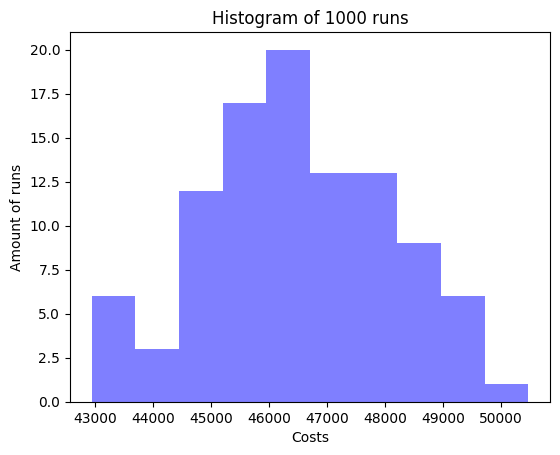
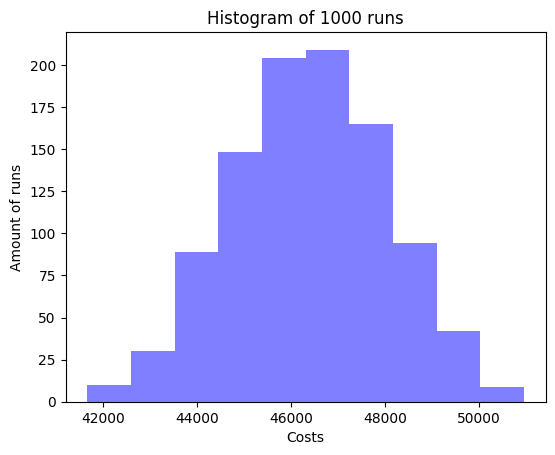
Yanick  update overlay + fix output files(waaronder technisch onderdeel)
Overlay maakt nu gebruik van segmenten ipv coördinaten. In de lijst van segmenten wordt bekeken hoevaak elk segment hierin zit. Zit het er vaker dan 1 keer in, dan toch telt het maar als 1 segment aangezien de kabels worden gedeeld
Visueel update: x,y-as nu geen label --> meer ruimte voor grid

diff --git a/code/visualisation/grid.py b/code/visualisation/grid.py
@@ -17,6 +17,10 @@ def plot_houses(houses):
         color = color_house(houses[i])
         plt.plot(int(x), int(y), marker=".", color=color)
 
+def axes_labels(): #makes sure there is nothing added to axes labels, which is done by default 
+    plt.xlabel("")
+    plt.ylabel("")
+
 # Gives color to the house on the grid
 def color_house(house):
     if house.to_battery == 1:
@@ -39,11 +43,13 @@ def plot_batteries(batteries):
         color = color_battery(batteries[i])
         plt.plot(int(x), int(y), marker="D", color=color, label=f"Battery {batteries[i].id}")
 
-        plt.plot(int(x), int(y), marker="D", color=color, label=f"bat: {batteries[i].id}")
+        """plt.plot(int(x), int(y), marker="D", color=color, label=f"bat: {batteries[i].id}")
 
         plt.plot(int(x), int(y), marker="D", color=color, label=f"bat: {batteries[i].id}")
 
-        plt.plot(int(x), int(y), marker="D", color=color, label=f"bat: {batteries[i].id}")
+        plt.plot(int(x), int(y), marker="D", color=color, label=f"bat: {batteries[i].id}")"""
+
+        #code hierboven voegt onnodige legenda toe, aangezien door de for i in batteries alle batterijen al langs komen. ~ Yanick
 
         plt.legend()
     
@@ -116,8 +122,9 @@ def plot_grid(houses, batteries, cables):
     plot_houses(houses)
     plot_batteries(batteries)
     axes_numbers()
+    axes_labels()
     draw_cables(cables)
-    #nog wat netter maken dit
+    #-- schrinks the grid so that a legend box can be added.
     # Shrink current axis by 20%
     ax = plt.subplot()
     # Shrink current axis by 20%

diff --git a/main.py b/main.py
@@ -30,7 +30,7 @@ if __name__ == "__main__":
     final_score: Score = Score() 
 
     #run a certain algorithm for a specified number of times
-    for run in range(100):
+    for run in range(1000):
         # Applies algorithm to data set, makes connections between houses and batteries
         data: Data = random_algorithm(raw_data.houses, raw_data.batteries) #algorithm of choice
         data.add_cables()
@@ -42,9 +42,6 @@ if __name__ == "__main__":
 
     average_score = final_score.calculate_average_score()
     data_best_score: Data = final_score.best_data
-
-    for i in data_best_score.cables:
-        data_best_score.cables[i].calculate_segments()
 
     #data_best_score.overlay() --> DIT IS CODE VOOR DE OVERLAY UPDATE
     print(final_score)
